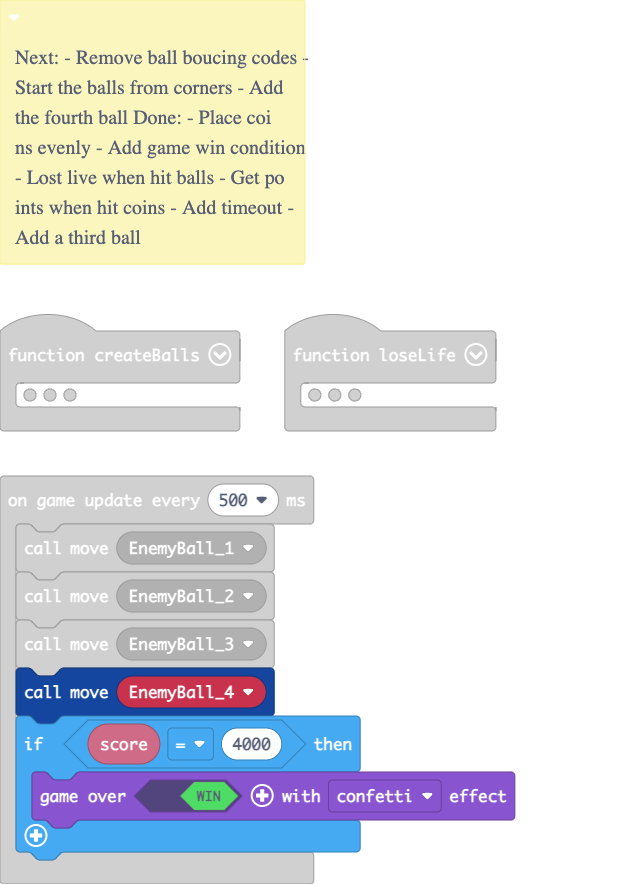
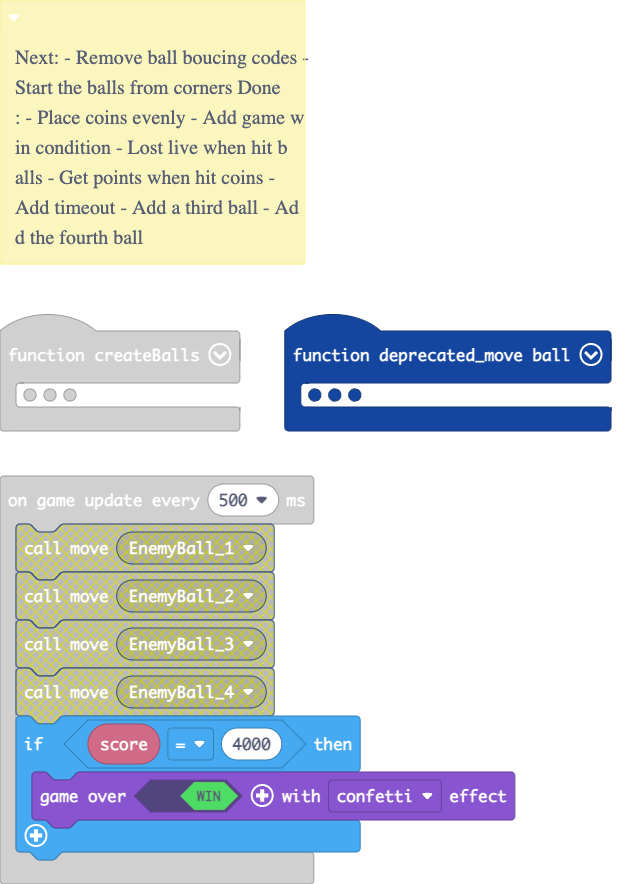
Removed ball bouncing codes

Changed region(s): [[0.0, 0.5803, 0.4604, 0.8247], [0.4604, 0.336, 1.0, 0.4887], [0.0307, 0.0916, 0.4911, 0.2749]]

diff --git a/main.ts b/main.ts
@@ -5,8 +5,6 @@
  * 
  * - Start the balls from corners
  * 
- * - Add the fourth ball
- * 
  * Done:
  * 
  * - Place coins evenly
@@ -20,6 +18,8 @@
  * - Add timeout
  * 
  * - Add a third ball
+ * 
+ * - Add the fourth ball
  */
 function createPrincess () {
     Princess = sprites.create(img`
@@ -114,114 +114,7 @@ function loseLife () {
 info.onCountdownEnd(function () {
     loseLife()
 })
-function createBalls () {
-    EnemyBall_1 = sprites.create(img`
-        . . . . . . . . . . . . . . . . 
-        . . . . . . 4 4 4 4 . . . . . . 
-        . . . . 4 4 4 5 5 4 4 4 . . . . 
-        . . . 3 3 3 3 4 4 4 4 4 4 . . . 
-        . . 4 3 3 3 3 2 2 2 1 1 4 4 . . 
-        . . 3 3 3 3 3 2 2 2 1 1 5 4 . . 
-        . 4 3 3 3 3 2 2 2 2 2 5 5 4 4 . 
-        . 4 3 3 3 2 2 2 4 4 4 4 5 4 4 . 
-        . 4 4 3 3 2 2 4 4 4 4 4 4 4 4 . 
-        . 4 2 3 3 2 2 4 4 4 4 4 4 4 4 . 
-        . . 4 2 3 3 2 4 4 4 4 4 2 4 . . 
-        . . 4 2 2 3 2 2 4 4 4 2 4 4 . . 
-        . . . 4 2 2 2 2 2 2 2 2 4 . . . 
-        . . . . 4 4 2 2 2 2 4 4 . . . . 
-        . . . . . . 4 4 4 4 . . . . . . 
-        . . . . . . . . . . . . . . . . 
-        `, SpriteKind.Enemy)
-    EnemyBall_1.x = randint(10, scene.screenWidth() - 10)
-    EnemyBall_1.y = randint(40, scene.screenHeight() - 10)
-    EnemyBall_1.setVelocity(50, 50)
-    EnemyBall_2 = sprites.create(img`
-        . . . . . . . . . . . . . . . . 
-        . . . . . . 4 4 4 4 . . . . . . 
-        . . . . 4 4 4 5 5 4 4 4 . . . . 
-        . . . 3 3 3 3 4 4 4 4 4 4 . . . 
-        . . 4 3 3 3 3 2 2 2 1 1 4 4 . . 
-        . . 3 3 3 3 3 2 2 2 1 1 5 4 . . 
-        . 4 3 3 3 3 2 2 2 2 2 5 5 4 4 . 
-        . 4 3 3 3 2 2 2 4 4 4 4 5 4 4 . 
-        . 4 4 3 3 2 2 4 4 4 4 4 4 4 4 . 
-        . 4 2 3 3 2 2 4 4 4 4 4 4 4 4 . 
-        . . 4 2 3 3 2 4 4 4 4 4 2 4 . . 
-        . . 4 2 2 3 2 2 4 4 4 2 4 4 . . 
-        . . . 4 2 2 2 2 2 2 2 2 4 . . . 
-        . . . . 4 4 2 2 2 2 4 4 . . . . 
-        . . . . . . 4 4 4 4 . . . . . . 
-        . . . . . . . . . . . . . . . . 
-        `, SpriteKind.Enemy)
-    EnemyBall_2.x = randint(10, scene.screenWidth() - 10)
-    EnemyBall_2.y = randint(40, scene.screenHeight() - 10)
-    EnemyBall_2.setVelocity(-50, 50)
-    EnemyBall_3 = sprites.create(img`
-        . . . . . . . . . . . . . . . . 
-        . . . . . . 4 4 4 4 . . . . . . 
-        . . . . 4 4 4 5 5 4 4 4 . . . . 
-        . . . 3 3 3 3 4 4 4 4 4 4 . . . 
-        . . 4 3 3 3 3 2 2 2 1 1 4 4 . . 
-        . . 3 3 3 3 3 2 2 2 1 1 5 4 . . 
-        . 4 3 3 3 3 2 2 2 2 2 5 5 4 4 . 
-        . 4 3 3 3 2 2 2 4 4 4 4 5 4 4 . 
-        . 4 4 3 3 2 2 4 4 4 4 4 4 4 4 . 
-        . 4 2 3 3 2 2 4 4 4 4 4 4 4 4 . 
-        . . 4 2 3 3 2 4 4 4 4 4 2 4 . . 
-        . . 4 2 2 3 2 2 4 4 4 2 4 4 . . 
-        . . . 4 2 2 2 2 2 2 2 2 4 . . . 
-        . . . . 4 4 2 2 2 2 4 4 . . . . 
-        . . . . . . 4 4 4 4 . . . . . . 
-        . . . . . . . . . . . . . . . . 
-        `, SpriteKind.Enemy)
-    EnemyBall_3.x = randint(10, scene.screenWidth() - 10)
-    EnemyBall_3.y = randint(40, scene.screenHeight() - 10)
-    EnemyBall_3.setVelocity(-50, 50)
-    EnemyBall_4 = sprites.create(img`
-        . . . . . . . . . . . . . . . . 
-        . . . . . . 4 4 4 4 . . . . . . 
-        . . . . 4 4 4 5 5 4 4 4 . . . . 
-        . . . 3 3 3 3 4 4 4 4 4 4 . . . 
-        . . 4 3 3 3 3 2 2 2 1 1 4 4 . . 
-        . . 3 3 3 3 3 2 2 2 1 1 5 4 . . 
-        . 4 3 3 3 3 2 2 2 2 2 5 5 4 4 . 
-        . 4 3 3 3 2 2 2 4 4 4 4 5 4 4 . 
-        . 4 4 3 3 2 2 4 4 4 4 4 4 4 4 . 
-        . 4 2 3 3 2 2 4 4 4 4 4 4 4 4 . 
-        . . 4 2 3 3 2 4 4 4 4 4 2 4 . . 
-        . . 4 2 2 3 2 2 4 4 4 2 4 4 . . 
-        . . . 4 2 2 2 2 2 2 2 2 4 . . . 
-        . . . . 4 4 2 2 2 2 4 4 . . . . 
-        . . . . . . 4 4 4 4 . . . . . . 
-        . . . . . . . . . . . . . . . . 
-        `, SpriteKind.Enemy)
-    EnemyBall_4.x = randint(10, scene.screenWidth() - 10)
-    EnemyBall_4.y = randint(40, scene.screenHeight() - 10)
-    EnemyBall_4.setVelocity(-50, 50)
-}
-function createCoins () {
-    for (let index = 0; index < 10; index++) {
-        GoldCoin = sprites.create(img`
-            . . . b b b . . 
-            . . b 5 5 5 b . 
-            . b 5 d 3 d 5 b 
-            . b 5 1 5 3 5 b 
-            . c d 1 5 3 5 c 
-            . c d d 1 d 5 c 
-            . . f d d d f . 
-            . . . f f f . . 
-            `, SpriteKind.Food)
-        GoldCoin.x = randint(10, scene.screenWidth() - 10)
-        GoldCoin.y = randint(10, scene.screenHeight() - 10)
-    }
-}
-sprites.onOverlap(SpriteKind.Player, SpriteKind.Food, function (sprite, otherSprite) {
-    music.magicWand.play()
-    info.changeScoreBy(100)
-    otherSprite.destroy(effects.fire, 500)
-})
-function move (ball: Sprite) {
+function deprecated_move (ball: Sprite) {
     if (ball.y > scene.screenHeight() - 20) {
         if (ball.vx > 0) {
             ball.setVelocity(50, -50)
@@ -251,6 +144,117 @@ function move (ball: Sprite) {
         }
     }
 }
+function createBalls () {
+    EnemyBall_1 = sprites.create(img`
+        . . . . . . . . . . . . . . . . 
+        . . . . . . 4 4 4 4 . . . . . . 
+        . . . . 4 4 4 5 5 4 4 4 . . . . 
+        . . . 3 3 3 3 4 4 4 4 4 4 . . . 
+        . . 4 3 3 3 3 2 2 2 1 1 4 4 . . 
+        . . 3 3 3 3 3 2 2 2 1 1 5 4 . . 
+        . 4 3 3 3 3 2 2 2 2 2 5 5 4 4 . 
+        . 4 3 3 3 2 2 2 4 4 4 4 5 4 4 . 
+        . 4 4 3 3 2 2 4 4 4 4 4 4 4 4 . 
+        . 4 2 3 3 2 2 4 4 4 4 4 4 4 4 . 
+        . . 4 2 3 3 2 4 4 4 4 4 2 4 . . 
+        . . 4 2 2 3 2 2 4 4 4 2 4 4 . . 
+        . . . 4 2 2 2 2 2 2 2 2 4 . . . 
+        . . . . 4 4 2 2 2 2 4 4 . . . . 
+        . . . . . . 4 4 4 4 . . . . . . 
+        . . . . . . . . . . . . . . . . 
+        `, SpriteKind.Enemy)
+    EnemyBall_1.x = randint(10, scene.screenWidth() - 10)
+    EnemyBall_1.y = randint(40, scene.screenHeight() - 10)
+    EnemyBall_1.setVelocity(50, 50)
+    EnemyBall_1.setBounceOnWall(true)
+    EnemyBall_2 = sprites.create(img`
+        . . . . . . . . . . . . . . . . 
+        . . . . . . 4 4 4 4 . . . . . . 
+        . . . . 4 4 4 5 5 4 4 4 . . . . 
+        . . . 3 3 3 3 4 4 4 4 4 4 . . . 
+        . . 4 3 3 3 3 2 2 2 1 1 4 4 . . 
+        . . 3 3 3 3 3 2 2 2 1 1 5 4 . . 
+        . 4 3 3 3 3 2 2 2 2 2 5 5 4 4 . 
+        . 4 3 3 3 2 2 2 4 4 4 4 5 4 4 . 
+        . 4 4 3 3 2 2 4 4 4 4 4 4 4 4 . 
+        . 4 2 3 3 2 2 4 4 4 4 4 4 4 4 . 
+        . . 4 2 3 3 2 4 4 4 4 4 2 4 . . 
+        . . 4 2 2 3 2 2 4 4 4 2 4 4 . . 
+        . . . 4 2 2 2 2 2 2 2 2 4 . . . 
+        . . . . 4 4 2 2 2 2 4 4 . . . . 
+        . . . . . . 4 4 4 4 . . . . . . 
+        . . . . . . . . . . . . . . . . 
+        `, SpriteKind.Enemy)
+    EnemyBall_2.x = randint(10, scene.screenWidth() - 10)
+    EnemyBall_2.y = randint(40, scene.screenHeight() - 10)
+    EnemyBall_2.setVelocity(-50, 50)
+    EnemyBall_2.setBounceOnWall(true)
+    EnemyBall_3 = sprites.create(img`
+        . . . . . . . . . . . . . . . . 
+        . . . . . . 4 4 4 4 . . . . . . 
+        . . . . 4 4 4 5 5 4 4 4 . . . . 
+        . . . 3 3 3 3 4 4 4 4 4 4 . . . 
+        . . 4 3 3 3 3 2 2 2 1 1 4 4 . . 
+        . . 3 3 3 3 3 2 2 2 1 1 5 4 . . 
+        . 4 3 3 3 3 2 2 2 2 2 5 5 4 4 . 
+        . 4 3 3 3 2 2 2 4 4 4 4 5 4 4 . 
+        . 4 4 3 3 2 2 4 4 4 4 4 4 4 4 . 
+        . 4 2 3 3 2 2 4 4 4 4 4 4 4 4 . 
+        . . 4 2 3 3 2 4 4 4 4 4 2 4 . . 
+        . . 4 2 2 3 2 2 4 4 4 2 4 4 . . 
+        . . . 4 2 2 2 2 2 2 2 2 4 . . . 
+        . . . . 4 4 2 2 2 2 4 4 . . . . 
+        . . . . . . 4 4 4 4 . . . . . . 
+        . . . . . . . . . . . . . . . . 
+        `, SpriteKind.Enemy)
+    EnemyBall_3.x = randint(10, scene.screenWidth() - 10)
+    EnemyBall_3.y = randint(40, scene.screenHeight() - 10)
+    EnemyBall_3.setVelocity(-50, 50)
+    EnemyBall_3.setBounceOnWall(true)
+    EnemyBall_4 = sprites.create(img`
+        . . . . . . . . . . . . . . . . 
+        . . . . . . 4 4 4 4 . . . . . . 
+        . . . . 4 4 4 5 5 4 4 4 . . . . 
+        . . . 3 3 3 3 4 4 4 4 4 4 . . . 
+        . . 4 3 3 3 3 2 2 2 1 1 4 4 . . 
+        . . 3 3 3 3 3 2 2 2 1 1 5 4 . . 
+        . 4 3 3 3 3 2 2 2 2 2 5 5 4 4 . 
+        . 4 3 3 3 2 2 2 4 4 4 4 5 4 4 . 
+        . 4 4 3 3 2 2 4 4 4 4 4 4 4 4 . 
+        . 4 2 3 3 2 2 4 4 4 4 4 4 4 4 . 
+        . . 4 2 3 3 2 4 4 4 4 4 2 4 . . 
+        . . 4 2 2 3 2 2 4 4 4 2 4 4 . . 
+        . . . 4 2 2 2 2 2 2 2 2 4 . . . 
+        . . . . 4 4 2 2 2 2 4 4 . . . . 
+        . . . . . . 4 4 4 4 . . . . . . 
+        . . . . . . . . . . . . . . . . 
+        `, SpriteKind.Enemy)
+    EnemyBall_4.x = randint(10, scene.screenWidth() - 10)
+    EnemyBall_4.y = randint(40, scene.screenHeight() - 10)
+    EnemyBall_4.setVelocity(-50, 50)
+    EnemyBall_4.setBounceOnWall(true)
+}
+function createCoins () {
+    for (let index = 0; index < 10; index++) {
+        GoldCoin = sprites.create(img`
+            . . . b b b . . 
+            . . b 5 5 5 b . 
+            . b 5 d 3 d 5 b 
+            . b 5 1 5 3 5 b 
+            . c d 1 5 3 5 c 
+            . c d d 1 d 5 c 
+            . . f d d d f . 
+            . . . f f f . . 
+            `, SpriteKind.Food)
+        GoldCoin.x = randint(10, scene.screenWidth() - 10)
+        GoldCoin.y = randint(10, scene.screenHeight() - 10)
+    }
+}
+sprites.onOverlap(SpriteKind.Player, SpriteKind.Food, function (sprite, otherSprite) {
+    music.magicWand.play()
+    info.changeScoreBy(100)
+    otherSprite.destroy(effects.fire, 500)
+})
 sprites.onOverlap(SpriteKind.Player, SpriteKind.Enemy, function (sprite, otherSprite) {
     loseLife()
 })
@@ -268,10 +272,6 @@ createCoins2()
 timeOut = 15
 info.startCountdown(timeOut)
 game.onUpdateInterval(500, function () {
-    move(EnemyBall_1)
-    move(EnemyBall_2)
-    move(EnemyBall_3)
-    move(EnemyBall_4)
     if (info.score() == 4000) {
         game.over(true, effects.confetti)
     }

diff --git a/images.g.ts b/images.g.ts
@@ -405,6 +405,60 @@ f b b 4 1 f d d f 1 4 b b f
 . . . . . . 4 4 4 4 . . . . . . 
 . . . . . . . . . . . . . . . . 
 `;
+            case "image30":return img`
+. . . . . . . . . . . . . . . . 
+. . . . . . 4 4 4 4 . . . . . . 
+. . . . 4 4 4 5 5 4 4 4 . . . . 
+. . . 3 3 3 3 4 4 4 4 4 4 . . . 
+. . 4 3 3 3 3 2 2 2 1 1 4 4 . . 
+. . 3 3 3 3 3 2 2 2 1 1 5 4 . . 
+. 4 3 3 3 3 2 2 2 2 2 5 5 4 4 . 
+. 4 3 3 3 2 2 2 4 4 4 4 5 4 4 . 
+. 4 4 3 3 2 2 4 4 4 4 4 4 4 4 . 
+. 4 2 3 3 2 2 4 4 4 4 4 4 4 4 . 
+. . 4 2 3 3 2 4 4 4 4 4 2 4 . . 
+. . 4 2 2 3 2 2 4 4 4 2 4 4 . . 
+. . . 4 2 2 2 2 2 2 2 2 4 . . . 
+. . . . 4 4 2 2 2 2 4 4 . . . . 
+. . . . . . 4 4 4 4 . . . . . . 
+. . . . . . . . . . . . . . . . 
+`;
+            case "image31":return img`
+. . . . . . . . . . . . . . . . 
+. . . . . . 4 4 4 4 . . . . . . 
+. . . . 4 4 4 5 5 4 4 4 . . . . 
+. . . 3 3 3 3 4 4 4 4 4 4 . . . 
+. . 4 3 3 3 3 2 2 2 1 1 4 4 . . 
+. . 3 3 3 3 3 2 2 2 1 1 5 4 . . 
+. 4 3 3 3 3 2 2 2 2 2 5 5 4 4 . 
+. 4 3 3 3 2 2 2 4 4 4 4 5 4 4 . 
+. 4 4 3 3 2 2 4 4 4 4 4 4 4 4 . 
+. 4 2 3 3 2 2 4 4 4 4 4 4 4 4 . 
+. . 4 2 3 3 2 4 4 4 4 4 2 4 . . 
+. . 4 2 2 3 2 2 4 4 4 2 4 4 . . 
+. . . 4 2 2 2 2 2 2 2 2 4 . . . 
+. . . . 4 4 2 2 2 2 4 4 . . . . 
+. . . . . . 4 4 4 4 . . . . . . 
+. . . . . . . . . . . . . . . . 
+`;
+            case "image32":return img`
+. . . . . . . . . . . . . . . . 
+. . . . . . 4 4 4 4 . . . . . . 
+. . . . 4 4 4 5 5 4 4 4 . . . . 
+. . . 3 3 3 3 4 4 4 4 4 4 . . . 
+. . 4 3 3 3 3 2 2 2 1 1 4 4 . . 
+. . 3 3 3 3 3 2 2 2 1 1 5 4 . . 
+. 4 3 3 3 3 2 2 2 2 2 5 5 4 4 . 
+. 4 3 3 3 2 2 2 4 4 4 4 5 4 4 . 
+. 4 4 3 3 2 2 4 4 4 4 4 4 4 4 . 
+. 4 2 3 3 2 2 4 4 4 4 4 4 4 4 . 
+. . 4 2 3 3 2 4 4 4 4 4 2 4 . . 
+. . 4 2 2 3 2 2 4 4 4 2 4 4 . . 
+. . . 4 2 2 2 2 2 2 2 2 4 . . . 
+. . . . 4 4 2 2 2 2 4 4 . . . . 
+. . . . . . 4 4 4 4 . . . . . . 
+. . . . . . . . . . . . . . . . 
+`;
         }
         return null;
     })
